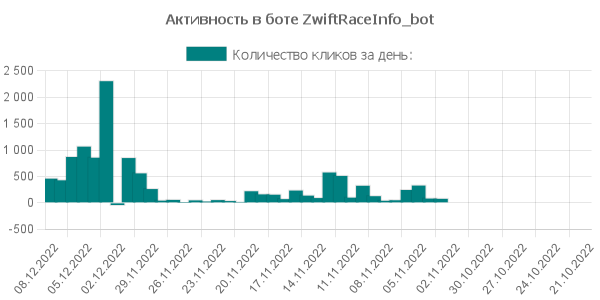
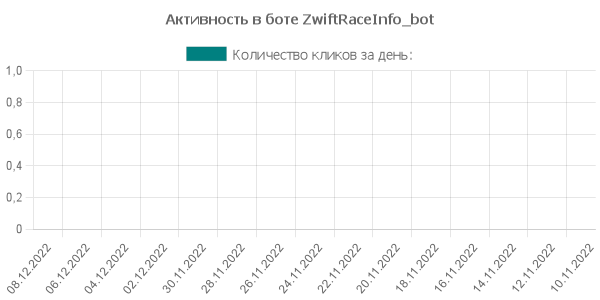
changed a counting clicks

diff --git a/middleware/count-click.js b/middleware/count-click.js
@@ -7,18 +7,29 @@ export async function countClick(ctx, next) {
 
 			if (user.id == process.env.DEVELOPER_ID) return next();
 
-			const click = await Click.findOneAndUpdate({ 'user.id': user.id }, { $inc: { clicks: 1 } });
+			const today = new Date().setHours(0, 0, 0, 0);
+
+			const click = await Click.findOneAndUpdate(
+				{ 'user.id': user.id, 'clicksPerDay.date': today },
+				{ $inc: { 'clicksPerDay.$[elem].clicks': 1 } },
+				{ arrayFilters: [{ 'elem.date': today }] }
+			);
 
 			if (!click) {
-				const click = Click({
-					user,
-					clicks: 1,
-					dateStart: new Date().getTime(),
-				});
-				await click.save();
-			}
+				const updatedRider = await Click.findOneAndUpdate(
+					{ 'user.id': user.id },
+					{ $push: { clicksPerDay: { date: today, clicks: 1 } } },
+					{ returnDocument: 'after' }
+				);
+				if (!updatedRider) {
+					const click = Click({
+						user,
 
-			return next();
+						clicksPerDay: [{ date: new Date().setHours(0, 0, 0, 0), clicks: 1 }],
+					});
+					await click.save();
+				}
+			}
 		}
 
 		return next();

diff --git a/bot-komon.js b/bot-komon.js
@@ -15,6 +15,7 @@ import { serverExpress } from './server/server.js';
 import { readChannelPosts } from './modules/channel.js';
 import { sendNotice } from './controllers/notice-post.js';
 import { test } from './controllers/test.js';
+import { countClicksPerDay } from './modules/clicksperday.js';
 
 await mongoose
 	.connect(process.env.MONGODB)
@@ -37,6 +38,7 @@ bot.command('help', async ctx => await help(ctx));
 bot.command('main', async ctx => await mainMenu(ctx));
 bot.command('click', async ctx => await getClicks(ctx));
 bot.command('test', async ctx => {
+	countClicksPerDay();
 	await test(ctx);
 	await ctx.replyWithPhoto({ source: './out.png' });
 });
@@ -44,7 +46,7 @@ bot.on('callback_query', async ctx => await callbackQuery(ctx));
 bot.on('channel_post', async ctx => await readChannelPosts(ctx, ctx.update.channel_post));
 bot.on('message', async ctx => await sendNotice(ctx));
 
-bot.launch().then(nodeSchedule());
+bot.launch();
 
 process.once('SIGINT', () => bot.stop('SIGINT'));
 process.once('SIGTERM', () => bot.stop('SIGTERM'));

diff --git a/Model/Click.js b/Model/Click.js
@@ -3,11 +3,7 @@ const { Schema, model } = pkg;
 
 const clickSchema = new Schema({
 	user: { type: Object, unique: true, required: true },
-	clicks: { type: Number, default: 0 },
-	clicksPerDay: {
-		type: Array,
-		default: [{ date: new Date().getTime(), clicks: 0 }],
-	},
+	clicksPerDay: [{ date: Number, clicks: Number }],
 });
 
 export const Click = model('Click', clickSchema);

diff --git a/controllers/test.js b/controllers/test.js
@@ -27,7 +27,7 @@ export async function test() {
 				}
 			});
 		});
-		console.log(total);
+
 		let label = 'Количество кликов за день:\n';
 		const labels = Object.keys(total);
 		const data = [];
